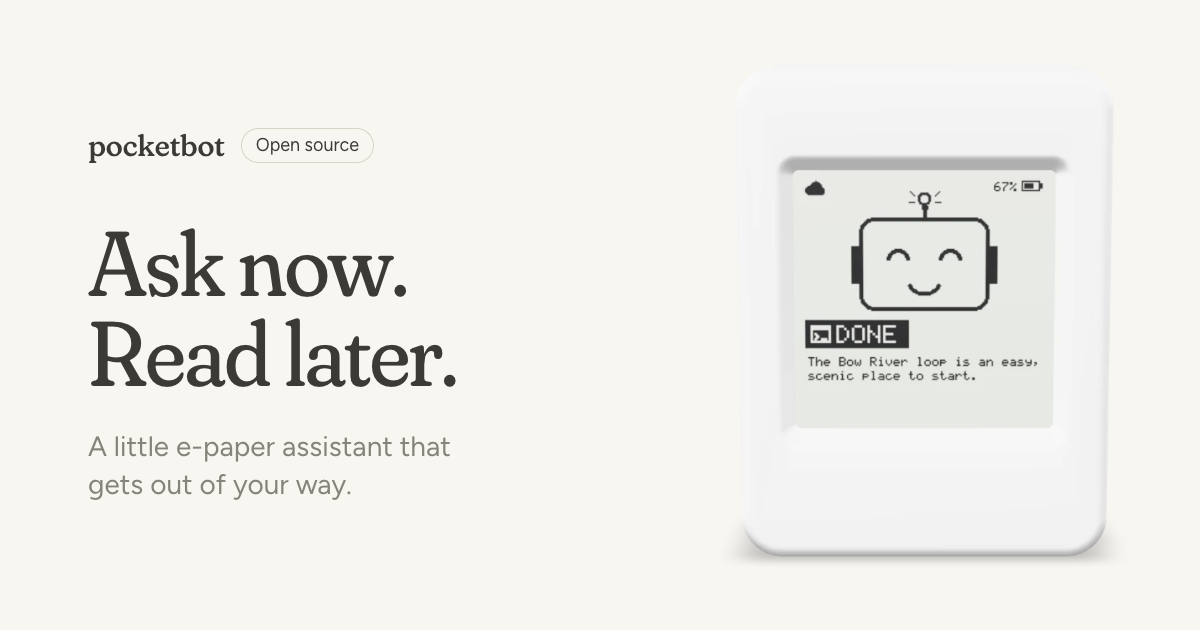
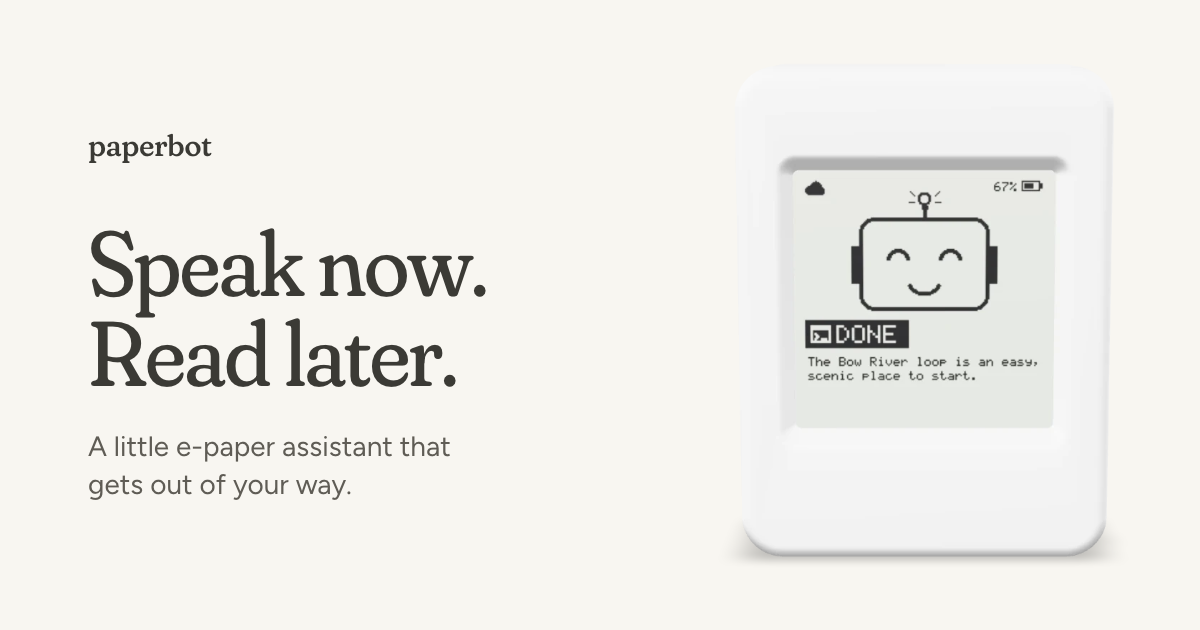
site: link preview says paperbot, not pocketbot (#4)
The og:image was rendered before the rename, so shared links still showed
"pocketbot" on the card. Render site/concepts/og/final.html again as
og-v4.jpg (new name so Slack and iMessage fetch it again) and drop og-v3.jpg.
The og concept pages now say paperbot.ca.

diff --git a/site/concepts/og/platforms.html b/site/concepts/og/platforms.html
@@ -39,13 +39,13 @@ img { display: block; width: 100%; }
 .sq .th { width: 84px; height: 84px; border-radius: 8px; background: url(card.png) center / cover; flex: none; } .sq .tt { font-weight: 600; } .sq .ds { color: #666; font-size: 13px; }
 </style></head><body>
 <div><div class="lbl">X</div><div class="frame x"><div class="post"><div class="av"></div><div style="flex:1"><div><span class="name">Joe</span> <span class="handle">@joe · 2m</span></div><div>made a little desk robot</div>
-<div class="card"><img src="card.png"><span class="dom">pocketbot.ca</span></div><div class="from">From pocketbot.ca</div></div></div></div></div>
-<div><div class="lbl">iMessage</div><div class="frame im"><div class="b"><img src="card.png"><div class="t"><div class="tt">paperbot: An open-source e-paper assistant</div><div class="d">pocketbot.ca</div></div></div></div></div>
-<div><div class="lbl">Slack</div><div class="frame sl"><div class="msg"><div class="av"></div><div><div><span class="u">Joe</span> <span style="color:#616061;font-size:12px">10:42 AM</span></div><div style="color:#1264a3">https://pocketbot.ca</div>
+<div class="card"><img src="card.png"><span class="dom">paperbot.ca</span></div><div class="from">From paperbot.ca</div></div></div></div></div>
+<div><div class="lbl">iMessage</div><div class="frame im"><div class="b"><img src="card.png"><div class="t"><div class="tt">paperbot: An open-source e-paper assistant</div><div class="d">paperbot.ca</div></div></div></div></div>
+<div><div class="lbl">Slack</div><div class="frame sl"><div class="msg"><div class="av"></div><div><div><span class="u">Joe</span> <span style="color:#616061;font-size:12px">10:42 AM</span></div><div style="color:#1264a3">https://paperbot.ca</div>
 <div class="un"><div class="site">paperbot</div><div class="ti">paperbot: An open-source e-paper assistant</div><div class="ds">A little e-paper assistant that gets out of your way.</div><img src="card.png"></div></div></div></div></div>
-<div><div class="lbl">LinkedIn</div><div class="frame li"><div class="c"><img src="card.png"><div class="m"><div class="tt">paperbot: An open-source e-paper assistant</div><div class="dm">pocketbot.ca</div></div></div></div></div>
-<div><div class="lbl">Facebook</div><div class="frame fb"><div class="c"><img src="card.png"><div class="m"><div class="dm">pocketbot.ca</div><div class="tt">paperbot: An open-source e-paper assistant</div><div class="ds">A little e-paper assistant that gets out of your way.</div></div></div></div></div>
+<div><div class="lbl">LinkedIn</div><div class="frame li"><div class="c"><img src="card.png"><div class="m"><div class="tt">paperbot: An open-source e-paper assistant</div><div class="dm">paperbot.ca</div></div></div></div></div>
+<div><div class="lbl">Facebook</div><div class="frame fb"><div class="c"><img src="card.png"><div class="m"><div class="dm">paperbot.ca</div><div class="tt">paperbot: An open-source e-paper assistant</div><div class="ds">A little e-paper assistant that gets out of your way.</div></div></div></div></div>
 <div><div class="lbl">Discord</div><div class="frame dc"><div class="e"><div class="site">paperbot</div><div class="ti">paperbot: An open-source e-paper assistant</div><div class="ds">A little e-paper assistant that gets out of your way.</div><img src="card.png"></div></div></div>
-<div><div class="lbl">WhatsApp</div><div class="frame wa"><div class="b"><div class="p"><img src="card.png"><div class="m"><div class="tt">paperbot: An open-source e-paper assistant</div><div class="ds">A little e-paper assistant that gets out of your way.</div><div class="dm">pocketbot.ca</div></div></div><div class="u">https://pocketbot.ca</div></div></div></div>
-<div><div class="lbl">Small thumbnail (some apps, narrow layouts)</div><div class="frame sq"><div class="row"><div class="th"></div><div><div class="tt">paperbot: An open-source e-paper assistant</div><div class="ds">A little e-paper assistant that gets out of your way.</div><div class="ds">pocketbot.ca</div></div></div></div></div>
+<div><div class="lbl">WhatsApp</div><div class="frame wa"><div class="b"><div class="p"><img src="card.png"><div class="m"><div class="tt">paperbot: An open-source e-paper assistant</div><div class="ds">A little e-paper assistant that gets out of your way.</div><div class="dm">paperbot.ca</div></div></div><div class="u">https://paperbot.ca</div></div></div></div>
+<div><div class="lbl">Small thumbnail (some apps, narrow layouts)</div><div class="frame sq"><div class="row"><div class="th"></div><div><div class="tt">paperbot: An open-source e-paper assistant</div><div class="ds">A little e-paper assistant that gets out of your way.</div><div class="ds">paperbot.ca</div></div></div></div></div>
 </body></html>

diff --git a/site/index.html b/site/index.html
@@ -13,8 +13,8 @@
   <meta property="og:url" content="https://paperbot.ca/">
   <meta property="og:title" content="Paperbot: An open-source e-paper assistant">
   <meta property="og:description" content="A little e-paper assistant that gets out of your way.">
-  <meta property="og:image" content="https://paperbot.ca/assets/img/og-v3.jpg">
-  <meta property="og:image:secure_url" content="https://paperbot.ca/assets/img/og-v3.jpg">
+  <meta property="og:image" content="https://paperbot.ca/assets/img/og-v4.jpg">
+  <meta property="og:image:secure_url" content="https://paperbot.ca/assets/img/og-v4.jpg">
   <meta property="og:image:type" content="image/jpeg">
   <meta property="og:image:width" content="1200">
   <meta property="og:image:height" content="630">
@@ -22,7 +22,7 @@
   <meta name="twitter:card" content="summary_large_image">
   <meta name="twitter:title" content="Paperbot: An open-source e-paper assistant">
   <meta name="twitter:description" content="A little e-paper assistant that gets out of your way.">
-  <meta name="twitter:image" content="https://paperbot.ca/assets/img/og-v3.jpg">
+  <meta name="twitter:image" content="https://paperbot.ca/assets/img/og-v4.jpg">
   <meta name="twitter:image:alt" content="Paperbot, a small white e-paper device, next to the words: Speak now. Read later.">
   <link rel="icon" href="assets/favicon-64.png" sizes="64x64" type="image/png">
   <link rel="icon" href="assets/favicon-32.png" sizes="32x32" type="image/png">

diff --git a/site/concepts/og/b.html b/site/concepts/og/b.html
@@ -13,5 +13,5 @@ h2 { font-size: 44px; line-height: 1.1; margin-top: 10px; }
 <img class="dev" src="../../assets/img/paperbot-front.webp">
 <div class="card"><div class="k muted"><svg viewBox="0 0 24 24"><path d="M9 7V5a2 2 0 0 1 2-2h2a2 2 0 0 1 2 2v2M4 7h16a2 2 0 0 1 2 2v10a2 2 0 0 1-2 2H4a2 2 0 0 1-2-2V9a2 2 0 0 1 2-2ZM2 12a24 24 0 0 0 20 0M12 12v3"/></svg><span>Research</span><span>6 min</span></div>
 <h2 class="serif">A good walk near Canmore</h2><p class="s">The Bow River loop is an easy, scenic place to start.</p></div>
-<div class="foot muted"><span>Hold the button, ask, and get back to what you were doing.</span><span>pocketbot.ca</span></div>
+<div class="foot muted"><span>Hold the button, ask, and get back to what you were doing.</span><span>paperbot.ca</span></div>
 </body></html>

diff --git a/site/concepts/og/a3.html b/site/concepts/og/a3.html
@@ -8,6 +8,6 @@ img { position: absolute; right: 70px; top: 50%; translate: 0 -50%; height: 520p
 .url { display: flex; align-items: center; gap: 16px; } .pill { font-size: 18px; color: #3b3a35; border: 1.5px solid #d9d4c7; border-radius: 999px; padding: 5px 14px 6px; }
 </style></head><body>
 <div class="l"><div class="mark">paperbot</div><h1 class="serif">Ask now.<br>Read later.</h1><p class="muted">A little e-paper assistant that gets out of your way.</p></div>
-<div class="url muted">pocketbot.ca <span class="pill">Open source</span></div>
+<div class="url muted">paperbot.ca <span class="pill">Open source</span></div>
 <img src="../../assets/img/paperbot-front.webp">
 </body></html>

diff --git a/site/concepts/og/a2.html b/site/concepts/og/a2.html
@@ -7,6 +7,6 @@ p { font-size: 28px; margin-top: 30px; line-height: 1.35; max-width: 22ch; }
 img { position: absolute; right: 70px; top: 50%; translate: 0 -50%; height: 520px; }
 </style></head><body>
 <div class="l"><div class="mark">paperbot</div><h1 class="serif">Ask now.<br>Read later.</h1><p class="muted">A little e-paper assistant that gets out of your way.</p></div>
-<div class="url muted">pocketbot.ca &nbsp;·&nbsp; Open source</div>
+<div class="url muted">paperbot.ca &nbsp;·&nbsp; Open source</div>
 <img src="../../assets/img/paperbot-front.webp">
 </body></html>

diff --git a/site/concepts/og/a.html b/site/concepts/og/a.html
@@ -7,6 +7,6 @@ p { font-size: 28px; margin-top: 30px; line-height: 1.35; max-width: 22ch; }
 img { position: absolute; right: 70px; top: 50%; translate: 0 -50%; height: 520px; }
 </style></head><body>
 <div class="l"><div class="mark">paperbot</div><h1 class="serif">Ask now.<br>Read later.</h1><p class="muted">A little e-paper robot that looks things up while you work.</p></div>
-<div class="url muted">pocketbot.ca</div>
+<div class="url muted">paperbot.ca</div>
 <img src="../../assets/img/paperbot-front.webp">
 </body></html>

diff --git a/site/concepts/og/c.html b/site/concepts/og/c.html
@@ -5,5 +5,5 @@ h1 { position: absolute; left: 0; right: 0; bottom: 92px; text-align: center; fo
 </style></head><body>
 <img src="../../assets/img/paperbot-front.webp">
 <h1 class="serif">Ask now. Read later.</h1>
-<div class="foot muted"><span class="mark" style="color:#3b3a35">paperbot</span> &nbsp;·&nbsp; pocketbot.ca</div>
+<div class="foot muted"><span class="mark" style="color:#3b3a35">paperbot</span> &nbsp;·&nbsp; paperbot.ca</div>
 </body></html>

diff --git a/site/README.md b/site/README.md
@@ -27,7 +27,7 @@ Static site for paperbot: `index.html`, `style.css`, `main.js`, no build step.
 - `assets/img/poster.webp`: still of the opening view (captured from the viewer, 1.4:1, full stage height). The page shows
   it at once and fades it out when the 3D device has drawn its first frame; the device's size follows the stage height,
   so the still lines up at any window size. Recapture it if the camera, model or opening screen changes.
-- `assets/img/`:, og:image (`og-v3.jpg`, 1200×630; bump the version in the file name when it changes, since Slack and iMessage cache previews), and the web app screenshots
+- `assets/img/`:, og:image (`og-v4.jpg`, 1200×630; bump the version in the file name when it changes, since Slack and iMessage cache previews), and the web app screenshots
   (`app-list-phone-v2.webp`: the List tab, in the "It lands in one quiet list" row): `make site-shots` against
   `sh tools/local-worker.sh` and a local OpenBelt shoots the real app with sample list items
   (`tools/e2e/site-shots.mjs`). Rerun it when the app's look changes, with a new version in the file name.
